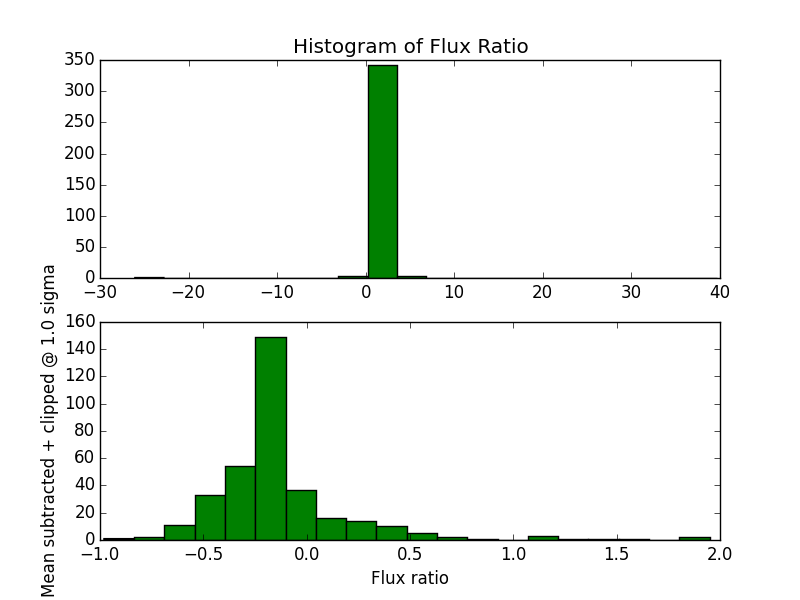
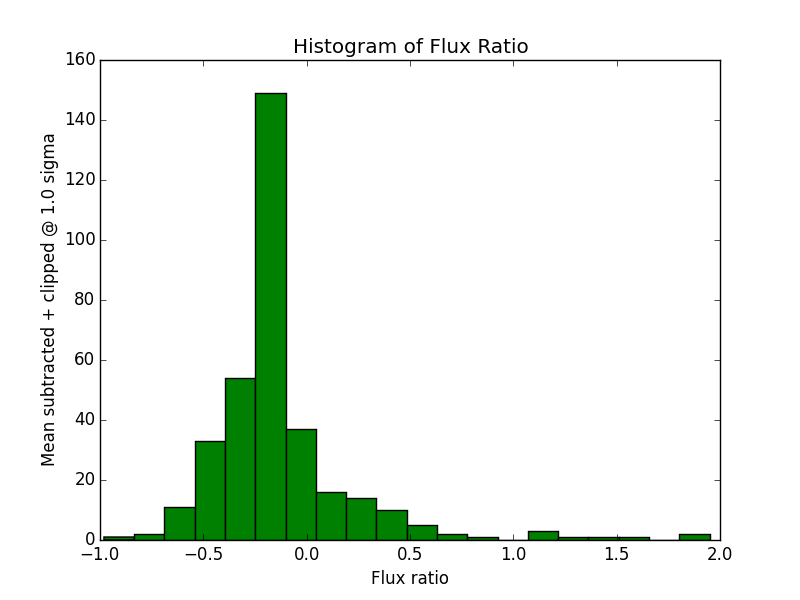
Same

diff --git a/get_fluxratio.py b/get_fluxratio.py
@@ -84,6 +84,7 @@ fluxRatio_meanSubtracted = fluxRatio - fluxRatio_mean
 maxSig = np.linspace(0.05,1.0,15) # Sigma
 
 
+
 for j in range(len(maxSig)): 
     
     #''' # Exclude clipped data points, copy to fluxRatio_excess
@@ -96,6 +97,7 @@ for j in range(len(maxSig)):
             fluxRatio_meanSubtracted_sigmaClipped.append(fluxRatio_meanSubtracted[i])
             x_clip.append(x[i])
             y_clip.append(y[i])
+            
         else:
             fluxRatio_excess.append(fluxRatio_meanSubtracted[i])
             x_exc.append(x[i])
@@ -114,23 +116,24 @@ for j in range(len(maxSig)):
     if plot:
         # Plotting source-wise flux ratio
         #plt.scatter(x, y, s=25*np.log10(0.1*fluxAvg), c=fluxRatio_meanSubtracted_sigmaClipped, vmin=-1.5*maxSig[j], vmax=1.5*maxSig[j], alpha=0.75)
-        plt.scatter(x_clip, y_clip, s=25*np.log10(0.1*fluxAvg), c=fluxRatio_meanSubtracted_sigmaClipped, vmin=-0.5*fluxRatio_std, vmax=0.5*fluxRatio_std, alpha=0.75)        
+        plt.scatter(x_clip, y_clip, c=fluxRatio_meanSubtracted_sigmaClipped, vmin=-0.5*fluxRatio_std, vmax=0.5*fluxRatio_std, alpha=0.75)        
         plt.axis([0,1600,0,1600])
         plt.colorbar()
         plt.xlabel('X_IMAGE')
         plt.ylabel('Y_IMAGE')
-        plt.title('Flux Ratio Color Map: sigma cutoff = '+str(maxSig[j])[0:3])
-        plt.savefig((dir_name+'/Figures/{}_{}_maxSig{}_fluxRatio.png'.format(img_tag1, img_tag2, str(maxSig[j])[0:3])))
+        plt.title('Flux Ratio Color Map: sigma cutoff = '+str(maxSig[j])[0:4])
+        plt.savefig((dir_name+'/Figures/{}_{}_maxSig{}_fluxRatio.png'.format(img_tag1, img_tag2, str(maxSig[j])[0:4])))
         plt.close()
     
     hist = True
     if hist:
-        plt.subplot(211)
-        plt.hist(fluxRatio,bins=20,color='green')
-        plt.title('Histogram of Flux Ratio')
-        plt.subplot(212)
+        #plt.subplot(211)
+        #plt.hist(fluxRatio,bins=20,color='green')
+        #plt.title('Histogram of Flux Ratio')
+        #plt.subplot(212)
         plt.hist(fluxRatio_meanSubtracted_sigmaClipped,bins=20,color='green')
-        plt.ylabel(('Mean subtracted + clipped @ {} sigma').format(str(maxSig[j])[0:3]))
+        plt.title('Histogram of Flux Ratio')
+        plt.ylabel(('Mean subtracted + clipped @ {} sigma').format(str(maxSig[j])[0:4]))
         plt.xlabel('Flux ratio')
-        plt.savefig((dir_name+'/Figures/Hist_{}_{}_maxSig{}_fluxRatio.png'.format(img_tag1, img_tag2, str(maxSig[j])[0:3])))
+        plt.savefig((dir_name+'/Figures/Hist_{}_{}_maxSig{}_fluxRatio.png'.format(img_tag1, img_tag2, str(maxSig[j])[0:4])))
         plt.close()

diff --git a/output_compare.py b/output_compare.py
@@ -1,0 +1,70 @@
+# -*- coding: utf-8 -*-
+"""
+Created on Thu Jun 16 10:36:10 2016
+
+@author: charlesgulian
+"""
+
+import os
+import matplotlib.pyplot as plt
+import numpy as np
+#from astropy.io import fits
+
+# Later add command line functionality
+
+dir_name = os.getcwd()
+
+n = open(dir_name + '/img_name_compare.txt','r')
+img_tag1 = (n.readline()).strip()
+img_tag2 = (n.readline()).strip()
+
+    
+#filename = dir_name+'/AstroImages/'img_tag+'.fits'
+#hdulist = fits.open(filename)  # open a FITS file
+#fits_hdr = hdulist[0].header
+#hdulist.close()
+
+f1 = open(dir_name+'/Results/'+img_tag1+'_'+img_tag1+'_compare.cat','r')
+lines = f1.readlines()
+cat_hdr_size = len(lines[len(lines)-1].split()) # Catalog header size; number of output columns in default.param
+f1.seek(0) # Reset pointer to start of file
+lines = None
+
+params = []
+PRINT = True
+if PRINT:
+    for i in range(cat_hdr_size):
+        param = (f1.readline()).split()[2] # Get parameter name
+        print param
+        params.append(param)
+else:
+    for i in range(cat_hdr_size):
+        param = (f1.readline()).split()[2] # Get parameter name
+        params.append(param)
+
+data1 = []
+for line in f1:
+    line = line.strip()
+    column = line.split()
+    source = {}
+    for i in range(len(params)):
+        source[params[i]] = float(column[i])
+    data1.append(source)
+    
+f2 = open(dir_name+'/Results/'+img_tag1+'_'+img_tag2+'_compare.cat','r')
+data2 = []
+for i in range(cat_hdr_size):
+    f2.readline()
+for line in f2:
+    line = line.strip()
+    column = line.split()
+    source = {}
+    for i in range(len(params)):
+        source[params[i]] = float(column[i])
+    data2.append(source)
+
+if len(data1) != len(data2):
+    print "Warning: data arrays are of different lengths"
+
+for i,j in data1.items():
+    
